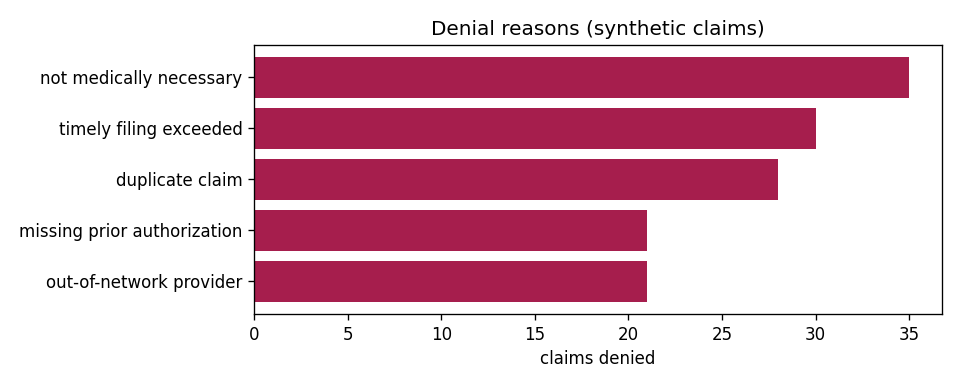
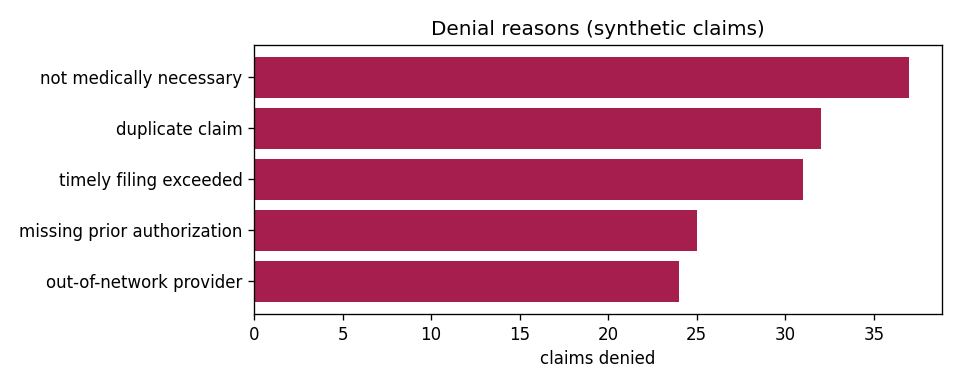
Add potential-duplicate-services payment-integrity screen
Groups by member, procedure and service date; reported as a review queue, not a quality failure. Synthetic data. +120 claims, 2 new tests (38 total).

diff --git a/src/healthdata/report.py b/src/healthdata/report.py
@@ -16,7 +16,8 @@ def render_markdown(monthly: list[dict], denial_reasons: list[tuple[str, int]],
                     procedures: list[dict] | None = None,
                     utilization: dict | None = None,
                     age_bands: list[dict] | None = None,
-                    reasons_by_plan: dict | None = None) -> str:
+                    reasons_by_plan: dict | None = None,
+                    duplicates: list[dict] | None = None) -> str:
     generated_at = generated_at or dt.datetime.now(dt.timezone.utc)
     total_paid = sum(m["paid"] for m in monthly)
     total_billed = sum(m["billed"] for m in monthly)
@@ -74,6 +75,16 @@ def render_markdown(monthly: list[dict], denial_reasons: list[tuple[str, int]],
                   "| Plan | Denials | Top reason | Count |", "| --- | ---: | --- | ---: |"]
         for plan, reasons in reasons_by_plan.items():
             lines.append(f"| {plan} | {sum(c for _, c in reasons)} | {reasons[0][0]} | {reasons[0][1]} |")
+    if duplicates is not None:
+        lines += ["", "## Potential duplicate services", "",
+                  f"{len(duplicates)} groups share a member, procedure and service date "
+                  "(review queue, not a quality failure)."]
+        if duplicates:
+            lines += ["", "| Member | Procedure | Date | Claims | Paid |",
+                      "| --- | --- | --- | ---: | ---: |"]
+            for g in duplicates[:5]:
+                lines.append(f"| {g['member_id']} | {g['procedure_code']} | {g['service_date']} | "
+                             f"{len(g['claim_ids'])} | ${g['paid']:,.0f} |")
     if age_bands:
         lines += ["", "## Cost by age band", "", "![Average paid by age band](age_band_costs.png)"]
     lines += [

diff --git a/tests/test_pipeline.py b/tests/test_pipeline.py
@@ -184,3 +184,29 @@ def test_report_renders_reasons_by_plan():
     md = report.render_markdown([], [], [], 0, reasons_by_plan={
         "PPO": [("duplicate claim", 2), ("timely filing exceeded", 1)]})
     assert "| PPO | 3 | duplicate claim | 2 |" in md
+
+
+def test_potential_duplicates_groups_same_service(tmp_path):
+    pipe = Pipeline(tmp_path / "c.csv")
+    same = dict(member_id="MBR-0001", procedure_code="99213", service_date="2026-11-01")
+    pipe.ingest([
+        make_valid("CLM-1", paid_amount=50, allowed_amount=60, billed_amount=100, **same),
+        make_valid("CLM-2", paid_amount=40, allowed_amount=60, billed_amount=100, **same),
+        make_valid("CLM-3", member_id="MBR-0001", procedure_code="99213",
+                   service_date="2026-11-02"),  # different date
+        make_valid("CLM-4", member_id="MBR-0002", procedure_code="99213",
+                   service_date="2026-11-01"),  # different member
+    ])
+    out = pipe.potential_duplicates()
+    assert len(out) == 1
+    assert out[0]["claim_ids"] == ["CLM-1", "CLM-2"] and out[0]["paid"] == 90.0
+    assert Pipeline(tmp_path / "empty.csv").potential_duplicates() == []
+
+
+def test_report_renders_duplicates_section_even_when_empty():
+    from healthdata import report
+    assert "0 groups" in report.render_markdown([], [], [], 0, duplicates=[])
+    md = report.render_markdown([], [], [], 0, duplicates=[{
+        "member_id": "MBR-0001", "procedure_code": "99213", "service_date": "2026-11-01",
+        "claim_ids": ["A", "B"], "paid": 90.0}])
+    assert "| MBR-0001 | 99213 | 2026-11-01 | 2 | $90 |" in md

diff --git a/src/healthdata/pipeline.py b/src/healthdata/pipeline.py
@@ -210,3 +210,23 @@ class Pipeline:
                 by_plan.setdefault(row["plan_type"] or "Unknown", Counter())[row["denial_reason"]] += 1
         return {plan: sorted(c.items(), key=lambda kv: (-kv[1], kv[0]))
                 for plan, c in sorted(by_plan.items())}
+
+    def potential_duplicates(self) -> list[dict]:
+        """Groups of claims with the same member, procedure and service date.
+
+        A classic payment-integrity screen: same service billed more than
+        once under different claim ids. Informational (a review queue, not a
+        quality failure) - repeat services can be legitimate. Synthetic data.
+        """
+        groups: dict[tuple, list[dict]] = {}
+        for row in self.load_store().values():
+            key = (row["member_id"], row["procedure_code"], row["service_date"])
+            groups.setdefault(key, []).append(row)
+        out = []
+        for (member, code, day), rows in groups.items():
+            if len(rows) > 1:
+                out.append({"member_id": member, "procedure_code": code,
+                            "service_date": day,
+                            "claim_ids": sorted(r["claim_id"] for r in rows),
+                            "paid": round(sum(float(r["paid_amount"] or 0) for r in rows), 2)})
+        return sorted(out, key=lambda g: (-g["paid"], g["member_id"], g["service_date"]))

diff --git a/scripts/daily_update.py b/scripts/daily_update.py
@@ -55,7 +55,8 @@ def main() -> int:
                                procedures=pipe.procedure_summary(),
                                utilization=pipe.high_utilizers(),
                                age_bands=pipe.age_band_costs(),
-                               reasons_by_plan=pipe.denial_reasons_by_plan()),
+                               reasons_by_plan=pipe.denial_reasons_by_plan(),
+                               duplicates=pipe.potential_duplicates()),
         encoding="utf-8",
     )
     if report.plot_monthly_financials(monthly, REPORTS / "monthly_financials.png"):

diff --git a/reports/claims_report.md b/reports/claims_report.md
@@ -1,8 +1,8 @@
 # Healthcare Data - claims pipeline report
 
-Generated 2026-11-17 23:07 UTC. All data is synthetic - no real member, patient or plan information.
+Generated 2026-11-18 04:08 UTC. All data is synthetic - no real member, patient or plan information.
 
-**1340 claims** in store. Billed $3,811,822, paid $2,213,686, denied 134 overall.
+**1460 claims** in store. Billed $4,170,196, paid $2,425,195, denied 148 overall.
 
 ## Monthly financials
 
@@ -20,45 +20,45 @@ Generated 2026-11-17 23:07 UTC. All data is synthetic - no real member, patient 
 | 2026-08 | 50 | $87,251 | $70,911 | $55,220 | 18.0% |
 | 2026-09 | 28 | $97,162 | $80,729 | $53,482 | 7.1% |
 | 2026-10 | 47 | $71,505 | $55,063 | $42,442 | 8.5% |
-| 2026-11 | 861 | $2,541,860 | $1,955,023 | $1,422,236 | 9.9% |
+| 2026-11 | 981 | $2,900,234 | $2,245,477 | $1,633,745 | 10.1% |
 
 ## Denial reasons
 
-- not medically necessary (35)
-- timely filing exceeded (30)
-- duplicate claim (28)
-- missing prior authorization (21)
-- out-of-network provider (21)
+- not medically necessary (37)
+- duplicate claim (32)
+- timely filing exceeded (31)
+- missing prior authorization (25)
+- out-of-network provider (24)
 
 ## Plan mix
 
-- HMO: 361
-- PPO: 347
-- EPO: 331
-- HDHP: 301
+- HMO: 397
+- PPO: 377
+- EPO: 359
+- HDHP: 327
 
 ## Plan performance
 
 | Plan | Claims | Denial rate | Paid / billed |
 | --- | ---: | ---: | ---: |
-| HMO | 361 | 9.7% | 62.8% |
-| PPO | 347 | 11.2% | 52.7% |
-| EPO | 331 | 10.0% | 55.9% |
-| HDHP | 301 | 9.3% | 60.4% |
+| HMO | 397 | 9.6% | 62.8% |
+| PPO | 377 | 11.9% | 53.3% |
+| EPO | 359 | 10.6% | 55.5% |
+| HDHP | 327 | 8.6% | 61.2% |
 
 ## Top procedures by paid amount
 
 | Code | Claims | Avg billed | Paid | Denial rate |
 | --- | ---: | ---: | ---: | ---: |
-| 27447 | 130 | $24,730 | $1,867,625 | 10.8% |
-| 43239 | 135 | $2,074 | $161,170 | 10.4% |
-| 99285 | 131 | $1,079 | $78,645 | 11.5% |
-| 70450 | 137 | $669 | $56,408 | 5.1% |
-| 99214 | 117 | $167 | $11,077 | 13.7% |
+| 27447 | 140 | $25,085 | $2,044,655 | 10.7% |
+| 43239 | 151 | $2,060 | $177,845 | 10.6% |
+| 99285 | 148 | $1,067 | $88,501 | 12.2% |
+| 70450 | 147 | $668 | $59,999 | 6.8% |
+| 99214 | 134 | $166 | $12,747 | 12.7% |
 
 ## Member utilization
 
-64 of 977 synthetic members have 3+ claims and account for 10.8% of paid dollars.
+90 of 1023 synthetic members have 3+ claims and account for 16.9% of paid dollars.
 
 | Member | Claims | Paid |
 | --- | ---: | ---: |
@@ -66,16 +66,28 @@ Generated 2026-11-17 23:07 UTC. All data is synthetic - no real member, patient 
 | MBR-0746 | 5 | $11,386 |
 | MBR-1542 | 4 | $27,681 |
 | MBR-0471 | 4 | $16,601 |
-| MBR-0369 | 4 | $14,138 |
+| MBR-1166 | 4 | $14,618 |
 
 ## Top denial reason by plan
 
 | Plan | Denials | Top reason | Count |
 | --- | ---: | --- | ---: |
-| EPO | 33 | not medically necessary | 10 |
+| EPO | 38 | not medically necessary | 11 |
 | HDHP | 28 | not medically necessary | 7 |
-| HMO | 35 | not medically necessary | 10 |
-| PPO | 39 | timely filing exceeded | 12 |
+| HMO | 38 | not medically necessary | 11 |
+| PPO | 45 | timely filing exceeded | 13 |
+
+## Potential duplicate services
+
+16 groups share a member, procedure and service date (review queue, not a quality failure).
+
+| Member | Procedure | Date | Claims | Paid |
+| --- | --- | --- | ---: | ---: |
+| MBR-0076 | 27447 | 2026-11-17 | 2 | $35,616 |
+| MBR-1025 | 27447 | 2026-11-17 | 2 | $23,763 |
+| MBR-1697 | 43239 | 2026-11-17 | 2 | $2,808 |
+| MBR-1896 | 43239 | 2026-11-17 | 2 | $2,471 |
+| MBR-0784 | 70450 | 2026-11-17 | 2 | $826 |
 
 ## Cost by age band
 
